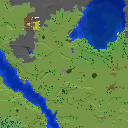
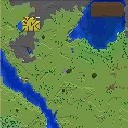
マップ更新

diff --git a/index.html b/index.html
@@ -49,7 +49,8 @@
 
   <script src="https://unpkg.com/leaflet/dist/leaflet.js"></script>
   <script>
-    const VERSION = "?ver=1.5"
+    // 画像のキャッシュ対策のため更新時にバージョンアップ
+    const VERSION = "?ver=1.6"
 
     // タイルのサイズを監視して安全に +1px する
     function watchTileSize(tile) {
@@ -826,9 +827,18 @@
     putMarker(
       -100, -380,
       {
-        title: "忍者屋敷(建築中)",
+        title: "忍者屋敷 ～芋からの挑戦状～",
         explane: "制作者 : 塩ポテト君",
         image: "images/ninja.jpeg"
+      },
+      map
+    );
+    putMarker(
+      -20, -80,
+      {
+        title: "マセイモを持ち上げる塩ポテト像",
+        explane: "制作者 : 塩ポテト君",
+        image: "images/potato_imo_statue.jpeg"
       },
       map
     );
